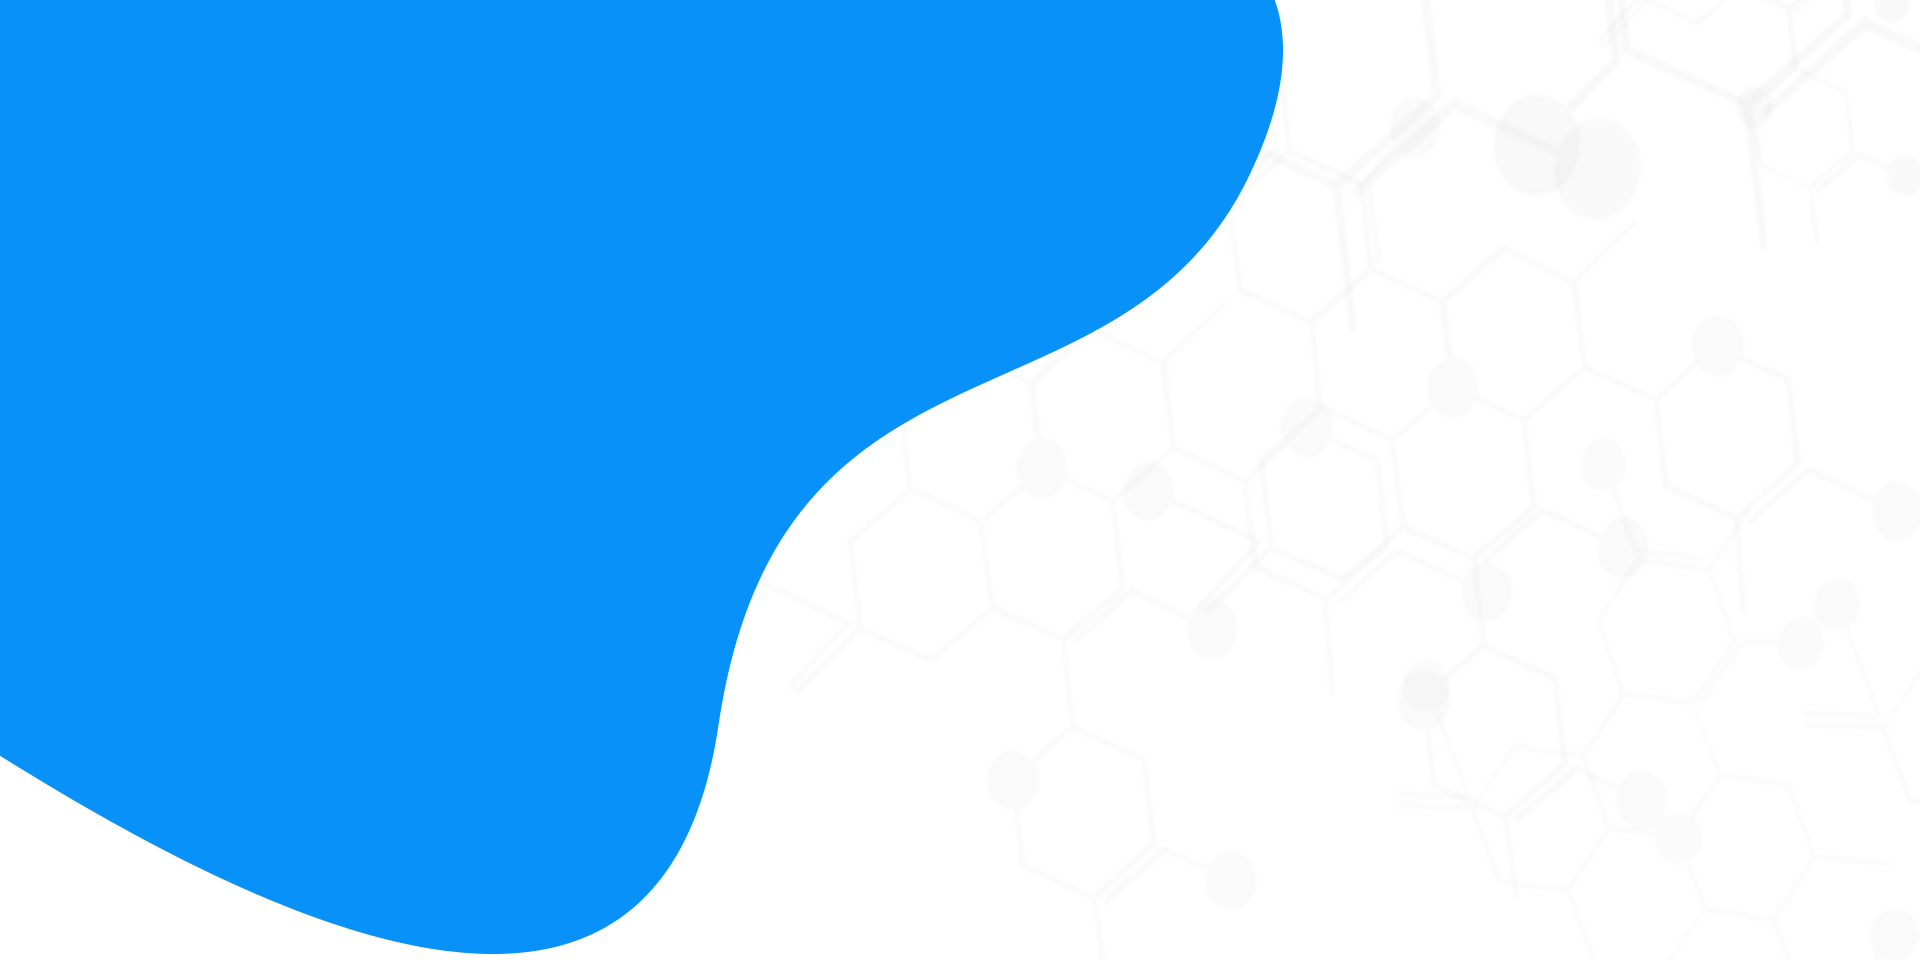
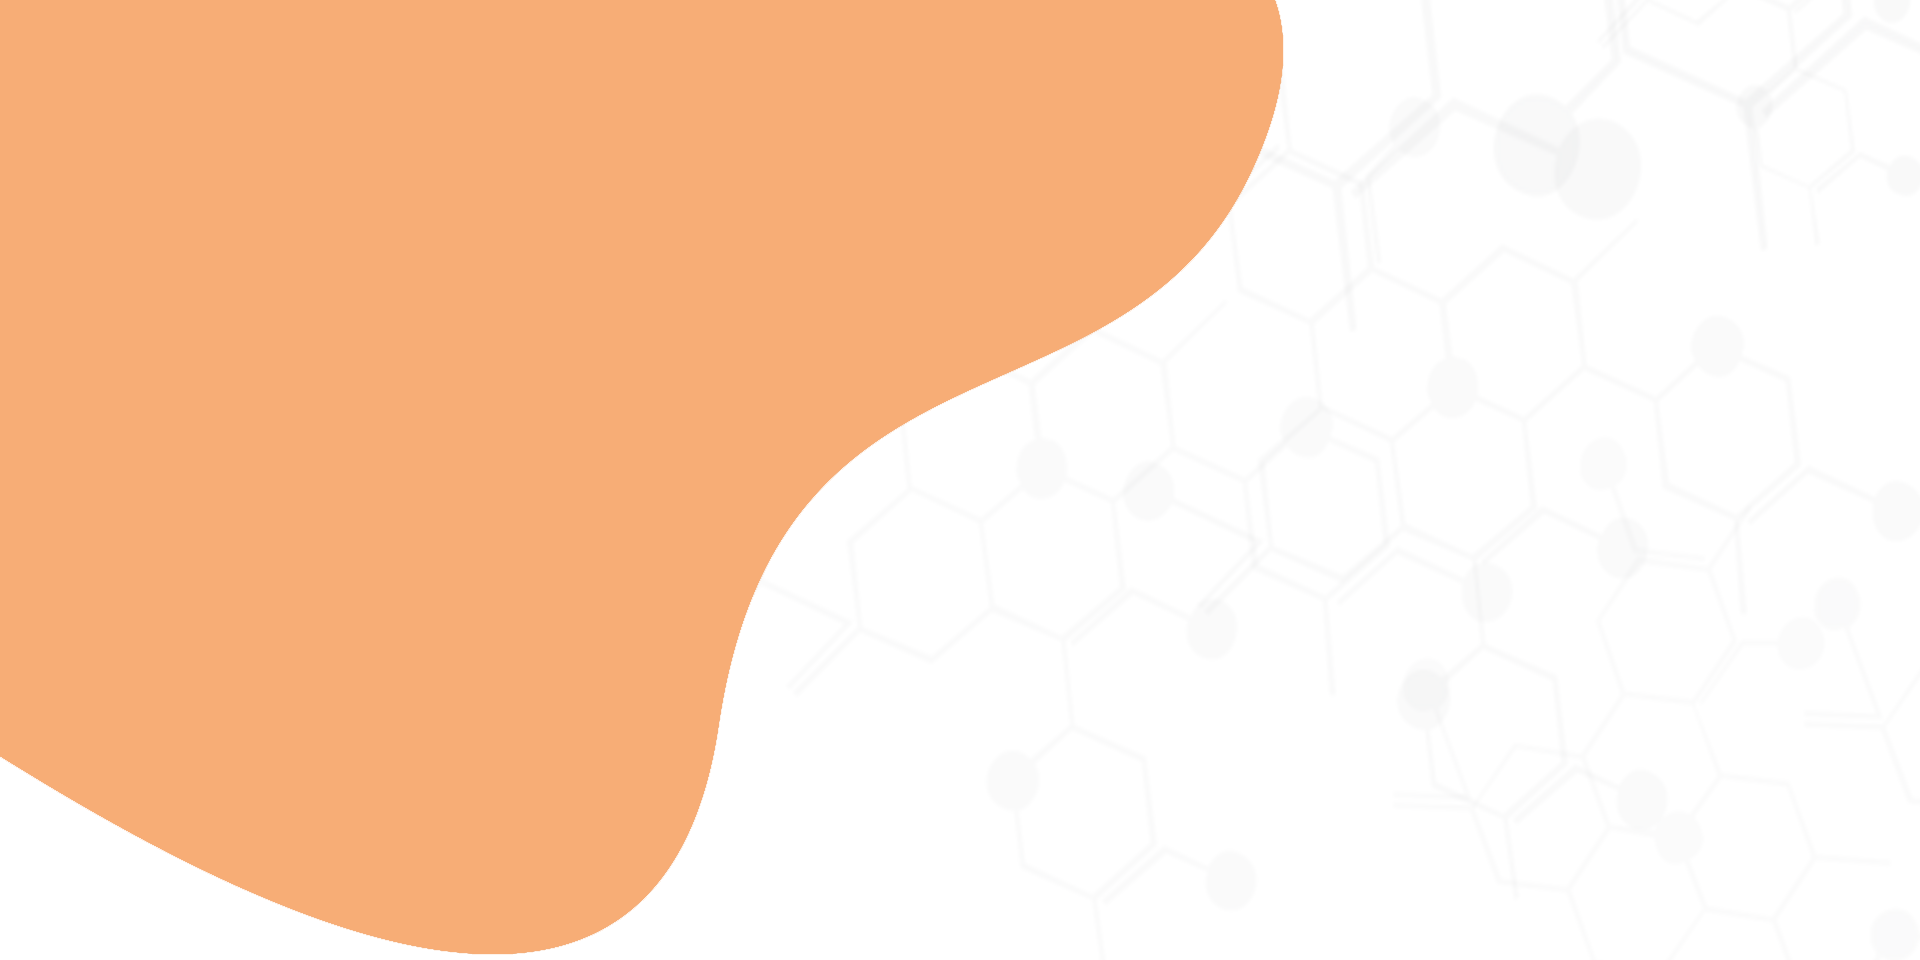
images, responsive & about us section

diff --git a/Jupiter/digihub/index.html b/Jupiter/digihub/index.html
@@ -66,13 +66,13 @@
                            <div class="collapse navbar-collapse" id="navbarsExample04">
                               <ul class="navbar-nav mr-auto">
                                  <li class="nav-item">
-                                    <a class="nav-link" href="#"> Home  </a>
+                                    <a class="nav-link" href="#home"> Home  </a>
                                  </li>
                                  <li class="nav-item">
-                                    <a class="nav-link" href="#">About</a>
+                                    <a class="nav-link" href="#about">About</a>
                                  </li>
                                  <li class="nav-item">
-                                    <a class="nav-link" href="#">Contact</a>
+                                    <a class="nav-link" href="#contact">Contact</a>
                                  </li>
                               </ul>
                            </div>
@@ -84,7 +84,7 @@
             <!-- end header inner -->
             <!-- end header -->
             <!-- banner -->
-            <section class="banner_main">
+            <section id="home" class="banner_main">
                <div class="container-fluid">
                   <div class="row d_flex">
                      <div class="col-md-6">
@@ -106,6 +106,9 @@
                                         data-max-width="100%"
                                         data-max-height="100%"
                                         src="images/box_img.png" alt="#"/></figure>
+                        </div>
+                        <div class="text-img-mob-view" style="display: none">
+                           <figure><img src="images/box_img.png" alt="#"/></figure>
                         </div>
                      </div>
                   </div>
@@ -198,6 +201,28 @@
                            I would highly recommend Jupiter! Their SEO team is easy to work with. Got really productive suggestions to improve our local SEO. Job well done! Thank you so much!
                         </p>
                      </div>
+                  </div>
+               </div>
+            </div>
+         </div>
+      </div>
+      <div class="section">
+         <div class="container">
+            <div id="about" class="">
+               <div class="row">
+                  <div class="col-md-12">
+                     <div class="titlepage">
+                        <h2>About us</h2>
+                     </div>
+                  </div>
+                  <div class="col-sm-6">
+                     <img src="images/proud_about.svg" alt="" >
+                  </div>
+                  <div class="col-sm-6" style="text-align: justify">
+                     <h2>Unified Services:</h2>
+                     <h3>Jupiter Digi Hub stays ahead of the curve with digital marketing trends. Our success has us leading the pack amongst our competitors with our ability to anticipate change and innovation.
+                        We aim at making work easier for entrepreneurs and we assist customers with all their business needs. Our skilled team will assist you at each step of the Business development lifecycle. We are the best when it comes to providing an amalgamation of business and technology as we provide smart solutions. So no matter what are your business needs, our team will be there to assist you whenever you need it!
+                     </h3>
                   </div>
                </div>
             </div>
@@ -307,6 +332,12 @@
          };
       </script>-->
    <!--Particle image script-->
+   <script>
+      element.scrollIntoView({
+         behavior: 'smooth',
+         block: 'start' // scroll to top of target element
+      })
+   </script>
 
    </body>
 </html>

diff --git a/Jupiter/digihub/css/responsive.css b/Jupiter/digihub/css/responsive.css
@@ -29,6 +29,12 @@
 }
 
 @media (min-width: 768px) and (max-width: 991px) {
+    .text-img{
+        display: none;
+    }
+    .text-img-mob-view{
+        display: block !important;
+    }
     .projects::after {
         background: transparent;
     }
@@ -52,8 +58,14 @@
 }
 
 @media (min-width: 576px) and (max-width: 767px) {
+    .text-img{
+        display: none;
+    }
+    .text-img-mob-view{
+        display: block !important;
+    }
     .head_top {
-        background: #0891f8;
+        background: #F7AD76;
     }
     .mean-container .mean-bar {
         margin-top: 0px;
@@ -71,7 +83,7 @@
         margin: 0;
     }
     .Testimonial {
-        background: #0891f8;
+        background: #F7AD76;
     }
     .Testimonial_box {
         padding: 20px;
@@ -123,8 +135,14 @@
 }
 
 @media (max-width: 575px) {
+    .text-img{
+        display: none;
+    }
+    .text-img-mob-view{
+        display: block !important;
+    }
     .head_top {
-        background: #0891f8;
+        background: #F7AD76;
     }
     .header {
         padding: 12px 0px 0px 0px;
@@ -159,7 +177,7 @@
         background: transparent;
     }
     .Testimonial {
-        background: #0891f8;
+        background: #F7AD76;
     }
     .Testimonial_box {
         padding: 20px;

diff --git a/Jupiter/digihub/css/style.css b/Jupiter/digihub/css/style.css
@@ -361,7 +361,7 @@ button {
 .text-bg a {
      font-size: 17px;
      background-color: #fff;
-     color: #0891f8;
+     color: #F7AD76;
      padding: 13px 0px;
      width: 100%;
      max-width: 190px;
@@ -418,7 +418,7 @@ button {
 }
 
 .business .titlepage span {
-     color: #0891f8;
+     color: #F7AD76;
      font-size: 30px;
      font-family: 'Baloo Chettan', cursive;
      text-transform: uppercase;
@@ -457,7 +457,7 @@ button {
 }
 
 .business .business_box .read_more:hover {
-     background: #0891f8;
+     background: #F7AD76;
 }
 
 
@@ -482,7 +482,7 @@ button {
 }
 
 .projects .titlepage span {
-     color: #0891f8;
+     color: #F7AD76;
      font-size: 30px;
      font-family: 'Baloo Chettan', cursive;
      text-transform: uppercase;
@@ -521,7 +521,7 @@ button {
 }
 
 .projects .projects_box .read_more:hover {
-     background: #0891f8;
+     background: #F7AD76;
 }
 
 
@@ -779,7 +779,7 @@ ul.social_icon li a:hover {
 
 .copyright {
      padding: 20px 0px;
-     background: #0891f8;
+     background: #F7AD76;
      margin-top: 50px;
      position: relative;
 }
